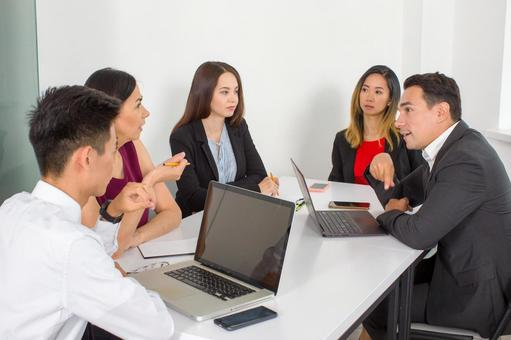
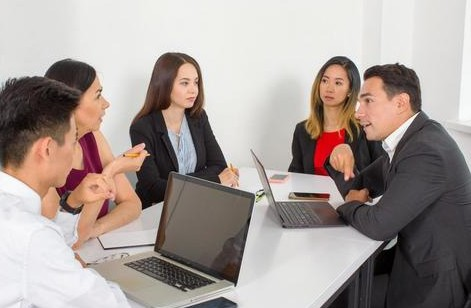
Add files via upload

diff --git a/SpokenChinese.html b/SpokenChinese.html
@@ -209,7 +209,7 @@ background-color: lightblue;
     <section class="founder-section">
       <div class="founder-left">
         <div class="photo-frame">
-          <img src="https://raw.githubusercontent.com/luforward/Chinese-Edu/refs/heads/main/busi-pic.jpg" alt="Business Chinese">
+          <img src="https://raw.githubusercontent.com/luforward/Chinese-Edu/refs/heads/main/spoken-pic.jpg" alt="Business Chinese">
         </div>
       </div>
       <div class="founder-right">
